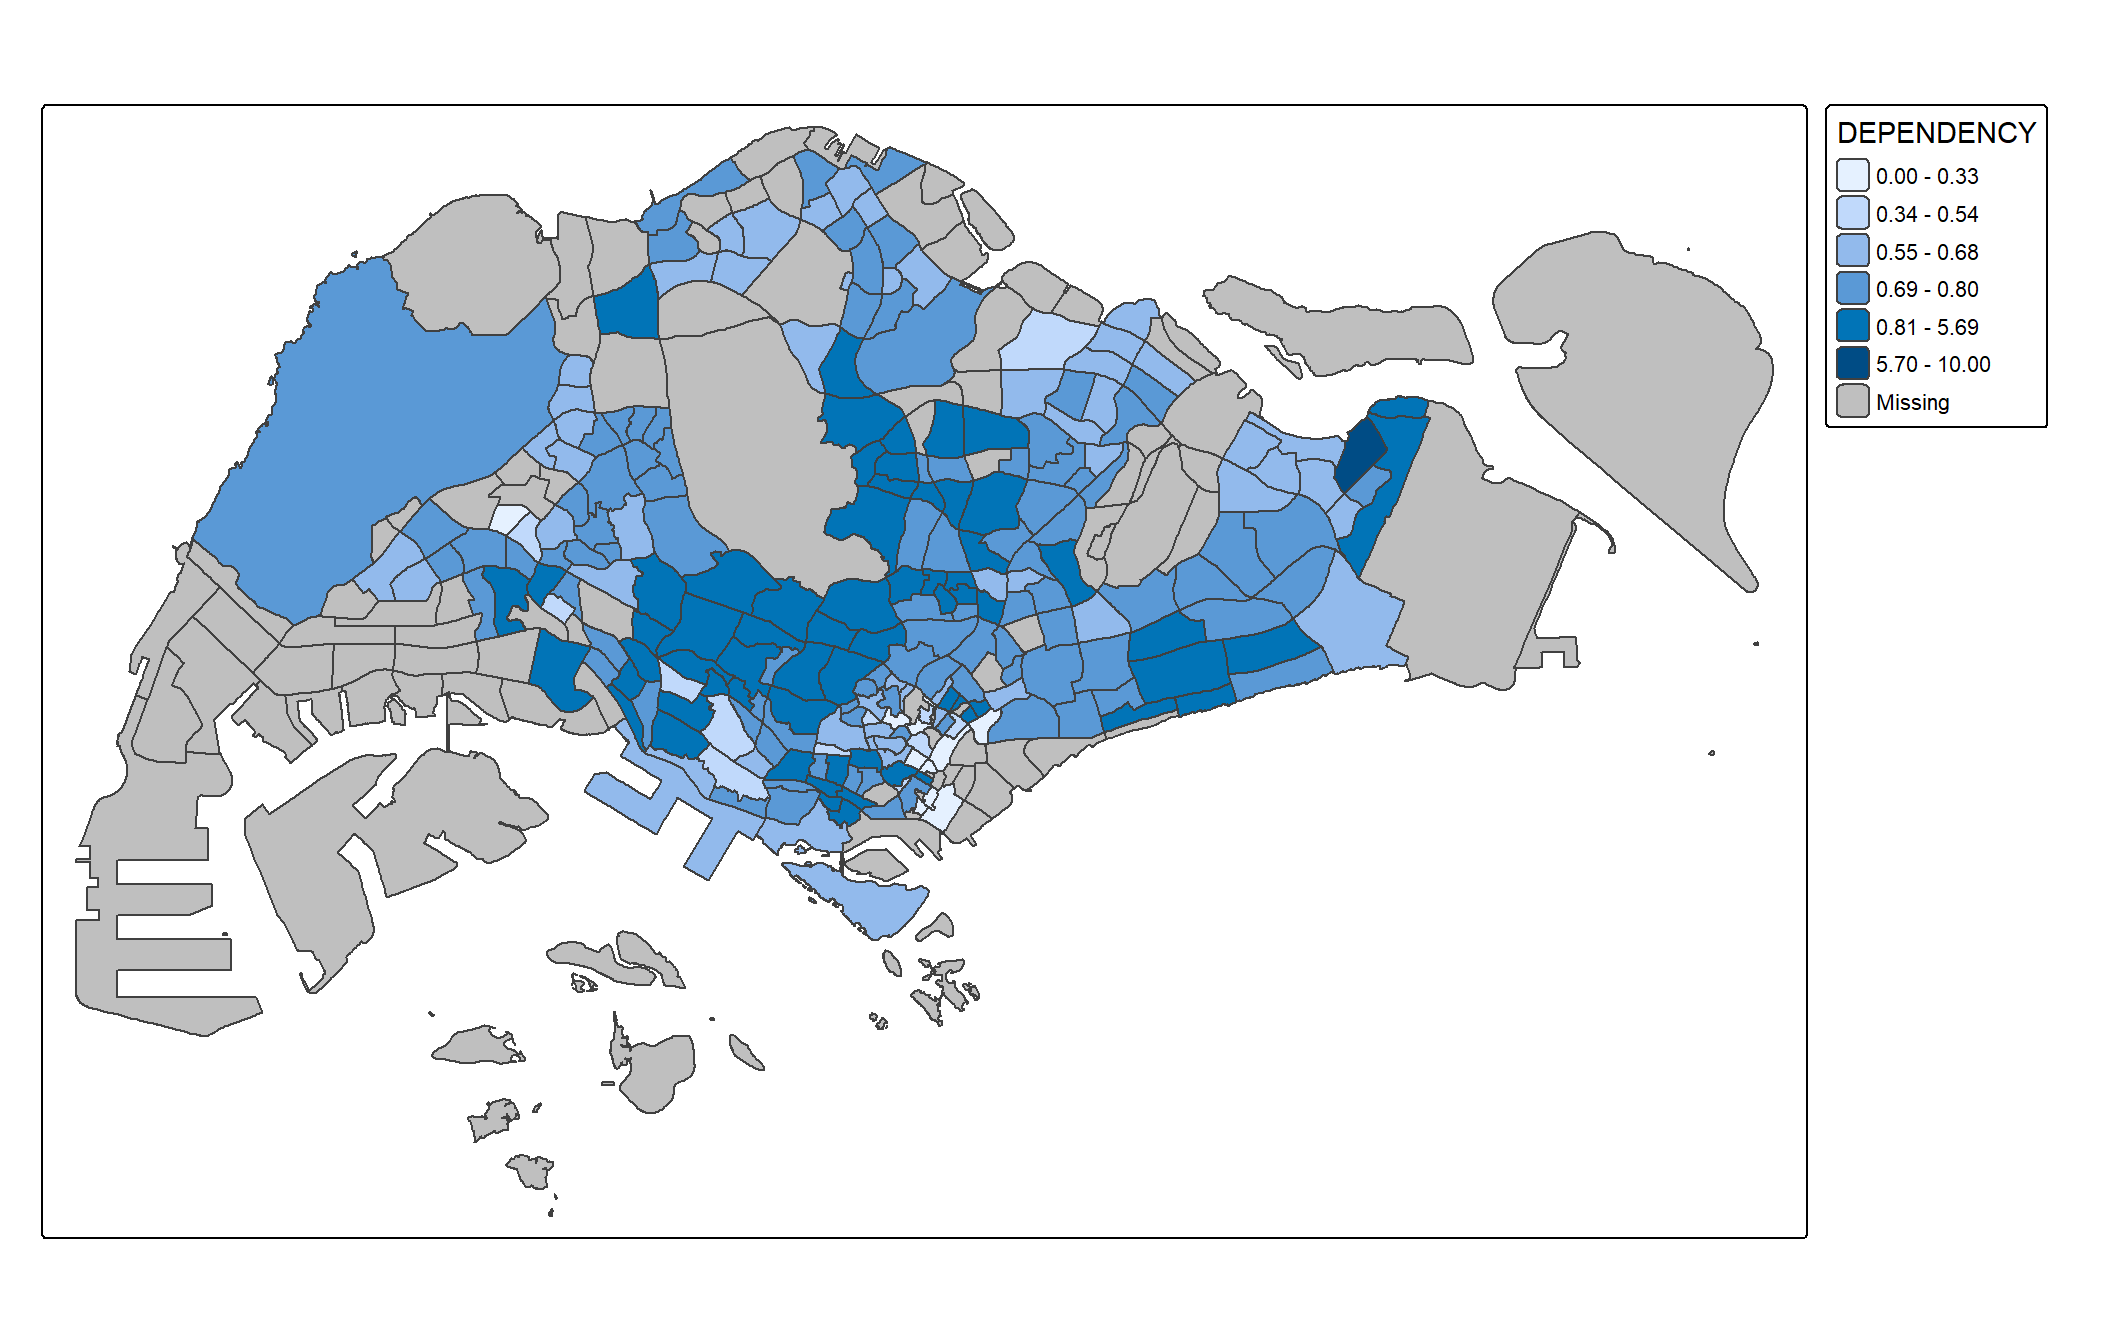
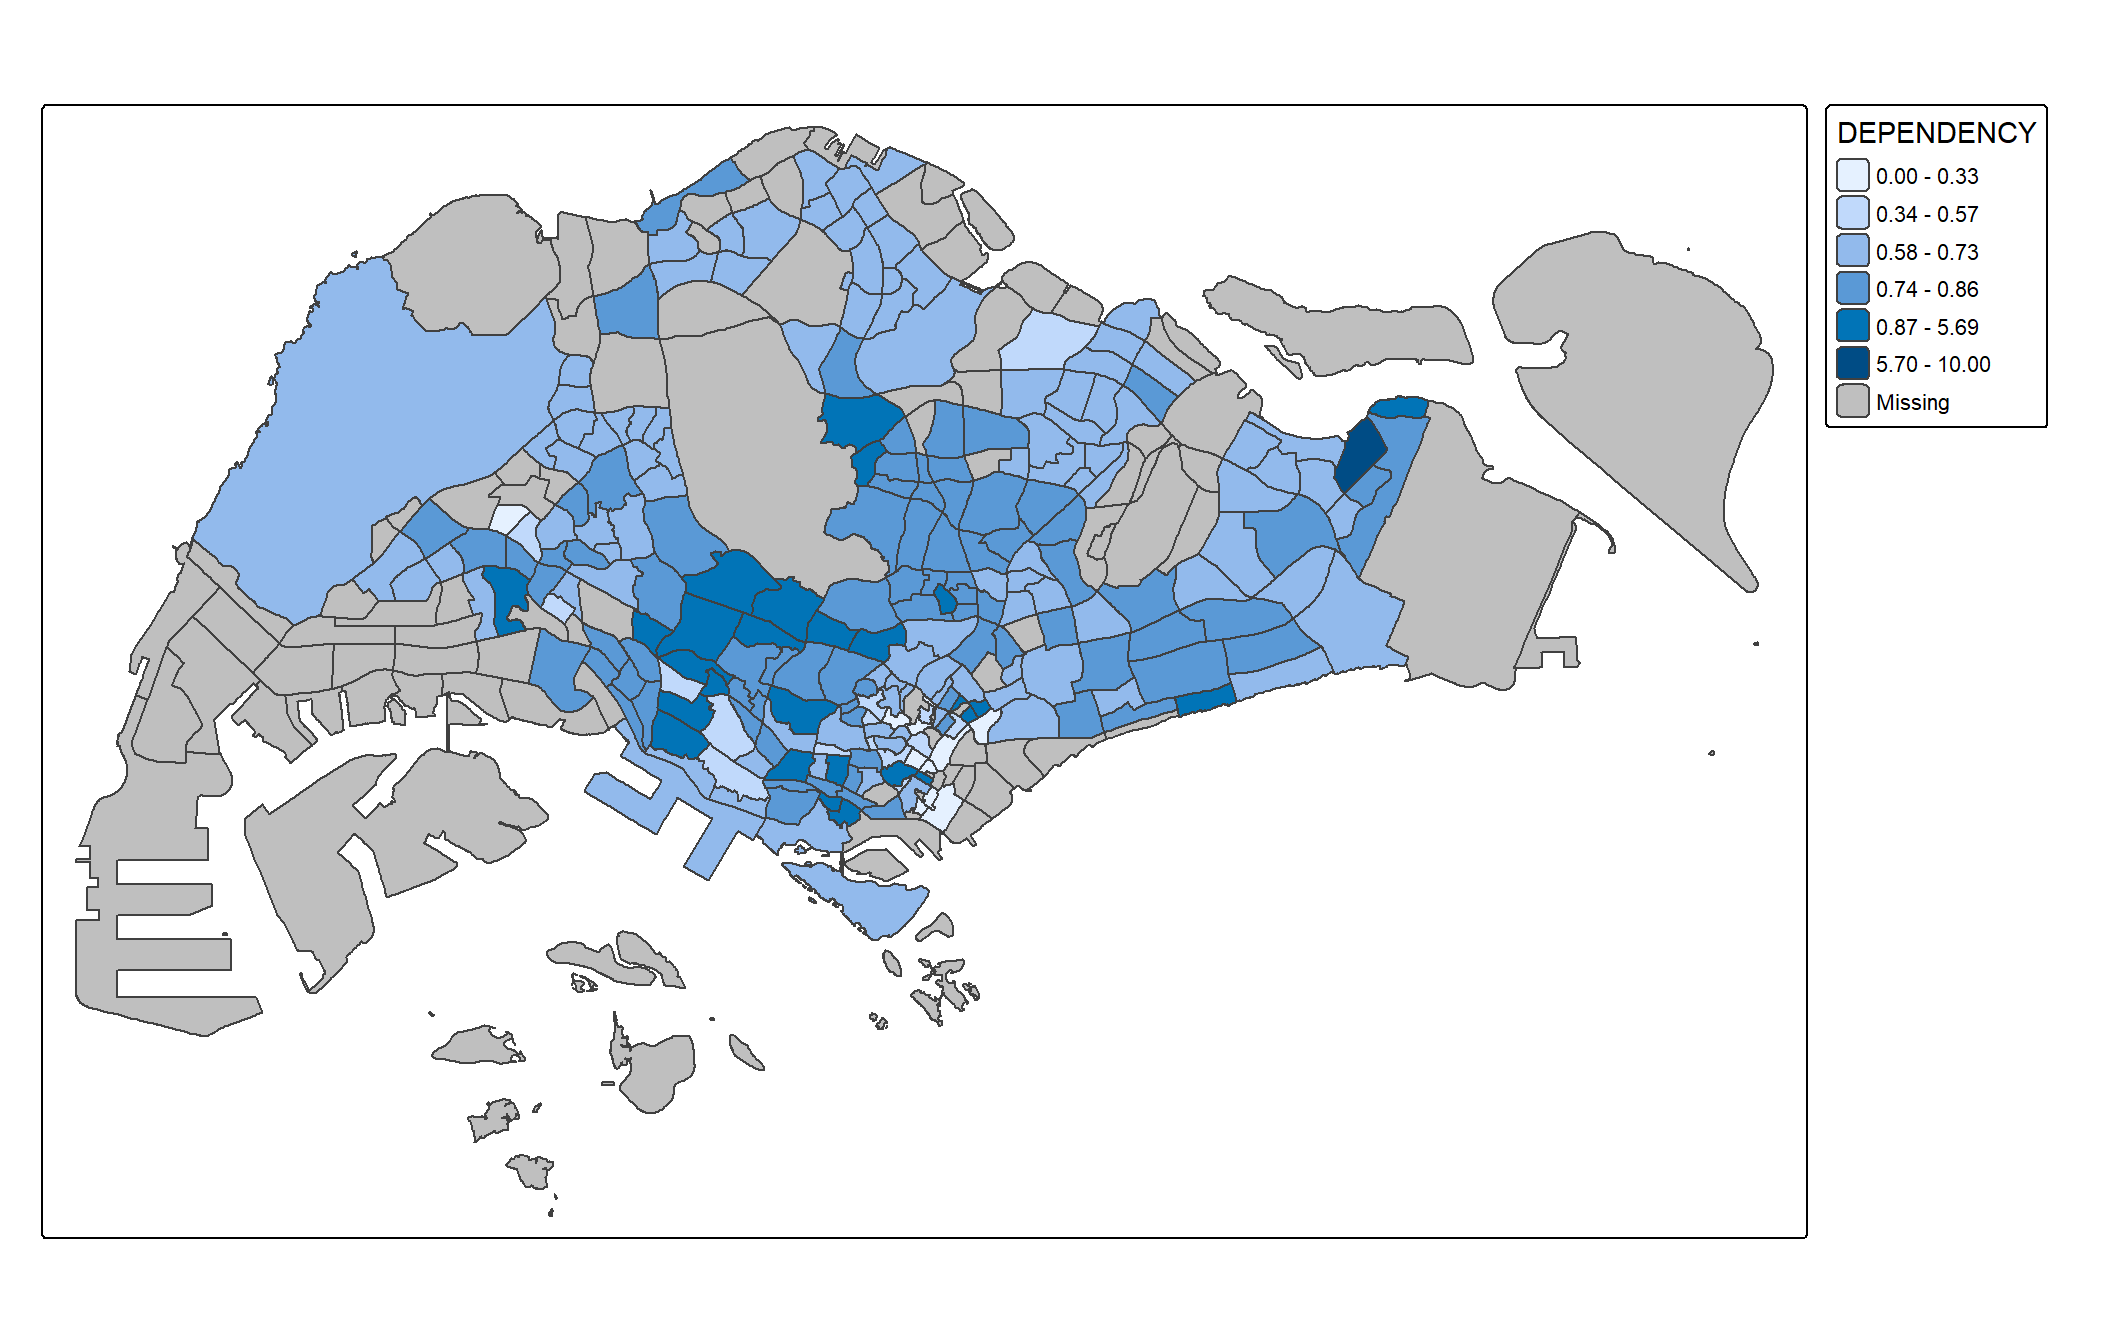
Commit after including section 6 - mapping spatial objects meeting a selection criterion

diff --git a/_site/Hands-on_Ex/Hands-on_Ex01B/Hands-on_Ex01B.html b/_site/Hands-on_Ex/Hands-on_Ex01B/Hands-on_Ex01B.html
@@ -236,6 +236,7 @@ pre > code.sourceCode > span > a:first-child::before { text-decoration: underlin
   <li><a href="#arranging-multiple-choropleth-maps-in-a-grid-layout" id="toc-arranging-multiple-choropleth-maps-in-a-grid-layout" class="nav-link" data-scroll-target="#arranging-multiple-choropleth-maps-in-a-grid-layout">5.2 Arranging multiple choropleth maps in a grid layout</a></li>
   <li><a href="#defining-a-group-by-variable-with-tm_facets" id="toc-defining-a-group-by-variable-with-tm_facets" class="nav-link" data-scroll-target="#defining-a-group-by-variable-with-tm_facets">5.3 Defining a group-by variable with tm_facets()</a></li>
   </ul></li>
+  <li><a href="#mapping-spatial-objects-meeting-a-selection-criterion" id="toc-mapping-spatial-objects-meeting-a-selection-criterion" class="nav-link" data-scroll-target="#mapping-spatial-objects-meeting-a-selection-criterion">6 Mapping Spatial Objects Meeting a Selection Criterion</a></li>
   </ul>
 </nav>
     </div>
@@ -1234,9 +1235,31 @@ Note
 </div>
 </div>
 </div>
-
-
 </section>
+</section>
+<section id="mapping-spatial-objects-meeting-a-selection-criterion" class="level2">
+<h2 class="anchored" data-anchor-id="mapping-spatial-objects-meeting-a-selection-criterion">6 Mapping Spatial Objects Meeting a Selection Criterion</h2>
+<p>Instead of creating small multiple choropleth map, <code>filter()</code> of <strong>dplyr</strong> can be used to select a geographical area of interest, and plot a choropleth map focused only on the selected region.</p>
+<div class="cell">
+<div class="code-copy-outer-scaffold"><div class="sourceCode cell-code" id="cb46"><pre class="sourceCode r code-with-copy"><code class="sourceCode r"><span id="cb46-1"><a href="#cb46-1" aria-hidden="true" tabindex="-1"></a>mpsz_pop2024 <span class="sc">%&gt;%</span></span>
+<span id="cb46-2"><a href="#cb46-2" aria-hidden="true" tabindex="-1"></a>  <span class="fu">filter</span>(REGION_N <span class="sc">==</span> <span class="st">"CENTRAL REGION"</span>) <span class="sc">%&gt;%</span></span>
+<span id="cb46-3"><a href="#cb46-3" aria-hidden="true" tabindex="-1"></a>  <span class="fu">tm_shape</span>() <span class="sc">+</span></span>
+<span id="cb46-4"><a href="#cb46-4" aria-hidden="true" tabindex="-1"></a>  <span class="fu">tm_polygons</span>(<span class="at">fill =</span> <span class="st">"DEPENDENCY"</span>,</span>
+<span id="cb46-5"><a href="#cb46-5" aria-hidden="true" tabindex="-1"></a>              <span class="at">fill.scale =</span> <span class="fu">tm_scale_intervals</span>(</span>
+<span id="cb46-6"><a href="#cb46-6" aria-hidden="true" tabindex="-1"></a>                <span class="at">style =</span> <span class="st">"quantile"</span>, </span>
+<span id="cb46-7"><a href="#cb46-7" aria-hidden="true" tabindex="-1"></a>                <span class="at">values =</span> <span class="st">"brewer.greens"</span>),</span>
+<span id="cb46-8"><a href="#cb46-8" aria-hidden="true" tabindex="-1"></a>              <span class="at">fill.legend =</span> <span class="fu">tm_legend</span>()) <span class="sc">+</span></span>
+<span id="cb46-9"><a href="#cb46-9" aria-hidden="true" tabindex="-1"></a>  <span class="fu">tm_borders</span>(<span class="at">fill_alpha =</span> <span class="fl">0.5</span>)</span></code></pre></div><button title="Copy to Clipboard" class="code-copy-button"><i class="bi"></i></button></div>
+<div class="cell-output-display">
+<div>
+<figure class="figure">
+<p><img src="Hands-on_Ex01B_files/figure-html/unnamed-chunk-43-1.png" class="img-fluid figure-img" width="672"></p>
+</figure>
+</div>
+</div>
+</div>
+
+
 </section>
 
 </main> <!-- /main -->
